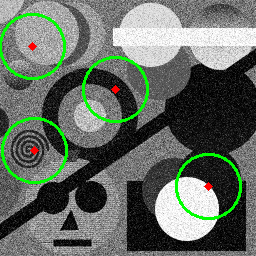
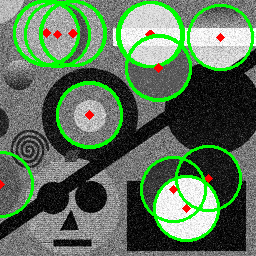
add files for lab2 @ cs650

diff --git a/CSProj/CS650/Lab 2/testHoughTransform02.py b/CSProj/CS650/Lab 2/testHoughTransform02.py
@@ -19,6 +19,8 @@ from utilities import *
 img_filename = 'circles.ppm'
 #img_filename = 'coins.png'
 
+detect_radius = 32
+
 img = Image.open(img_filename).convert("L")
 img = np.array(img)
 
@@ -27,12 +29,7 @@ img_gauss = cv2.medianBlur(img, 3)
 
 #img_edge = MarrHildreth(img_gauss, 50)
 #img_edge = canny(img_gauss, 20, 40)
-img_edge = cv2.Canny(img_gauss, 80, 100)
-
-print "generate hough circles"
-
-vg = houghCircleVariant(img_edge, [32])
-img_hough = vg.dumpHoughImgByRadusIndex(0)
+img_edge = cv2.Canny(img_gauss, 60, 140)
 
 fig1 = plt.figure()
 ax1 = fig1.add_subplot(111)
@@ -48,6 +45,9 @@ ax2.set_title('Canny')
 ax2.set_xticks([])
 ax2.set_yticks([])
 
+img_hough = houghCircle(img_edge, [detect_radius])[:,:,0]
+
+#print centers
 
 fig3 = plt.figure()
 ax3 = fig3.add_subplot(111)
@@ -56,7 +56,26 @@ ax3.set_title('Hough')
 ax3.set_xticks([])
 ax3.set_yticks([])
 
-writeToCsv('img_hough.csv', img_hough)
+plt.show()
+
+'''
+
+print "generate hough circles"
+
+vg = houghCircleVariant(img_edge, [radius])
+img_hough = vg.dumpHoughImgByRadusIndex(0)
+
+
+
+
+fig3 = plt.figure()
+ax3 = fig3.add_subplot(111)
+ax3.imshow(255*img_hough,cmap = 'gray')
+ax3.set_title('Hough')
+ax3.set_xticks([])
+ax3.set_yticks([])
+
+writeToCsv(img_filename + '-img_hough.csv', img_hough)
 
 for i in range(40):
     #print "revoting " + str(i)
@@ -71,19 +90,25 @@ ax4.set_title('Hough suppressed')
 ax4.set_xticks([])
 ax4.set_yticks([])
 
-writeToCsv('img_hough_sup.csv', img_hough_sup)
+writeToCsv(img_filename + '-img_hough_sup.csv', img_hough_sup)
 
-plt.show(block=False)
+plt.show(block=True)
 
-centers = findByThreshold(img_hough_sup, 0.5)
+'''
+
+centers = findByThreshold(img_hough, 0.5)
+#centers = findLocalMax(img_hough, 0.35)
+#centers = findByThreshold(img_hough_sup, 0.5)
 print centers
 
 cimg = cv2.cvtColor(img,cv2.COLOR_GRAY2BGR)
 for c in centers:
     # draw the outer circle
-    cv2.circle(cimg,(c[0],c[1]),32,(0,255,0),2)
+    cv2.circle(cimg,(c[0]-detect_radius,c[1]-detect_radius),detect_radius,(0,255,0),2)
     # draw the center of the circle
-    cv2.circle(cimg,(c[0],c[1]),2,(0,0,255),3)
+    cv2.circle(cimg,(c[0]-detect_radius,c[1]-detect_radius),2,(0,0,255),3)
 
 cv2.imshow('detected circles',cimg)
+cv2.imwrite(img_filename+'-detected.png',cimg)
 cv2.waitKey(0)
+

diff --git a/CSProj/CS650/Lab 2/testHoughTransform02-ut.py b/CSProj/CS650/Lab 2/testHoughTransform02-ut.py
@@ -12,6 +12,13 @@ import matplotlib.pyplot as plt
 import cv2
 from utilities import *
 
+img_filename = 'circles.ppm'
+
+detect_radius = 32
+
+img = Image.open(img_filename).convert("L")
+img = np.array(img)
+
 img_hough = readFromCsv('img_hough.csv')
 
 fig3 = plt.figure()
@@ -34,20 +41,23 @@ ax4.set_yticks([])
 
 #writeToCsv('img_hough_sup.csv', img_hough_sup)
 
-plt.show()
-'''
+#plt.show()
+
 plt.show(block=False)
 
-centers = findByThreshold(img_hough_sup, 0.5)
-print centers
+centers = findByThreshold(img_hough_sup, 0.06)
+#print centers
 
 cimg = cv2.cvtColor(img,cv2.COLOR_GRAY2BGR)
 for c in centers:
     # draw the outer circle
-    cv2.circle(cimg,(c[0],c[1]),32,(0,255,0),2)
+    cv2.circle(cimg,(c[0]-detect_radius,c[1]-detect_radius),detect_radius,(0,255,0),2)
     # draw the center of the circle
-    cv2.circle(cimg,(c[0],c[1]),2,(0,0,255),3)
+    cv2.circle(cimg,(c[0]-detect_radius,c[1]-detect_radius),2,(0,0,255),3)
+    
+    print str((c[0]-detect_radius,c[1]-detect_radius))
 
 cv2.imshow('detected circles',cimg)
+cv2.imwrite(img_filename+"-testHF02.png", cimg)
 cv2.waitKey(0)
-'''
+

diff --git a/CSProj/CS650/latex/Lab 2/cs650_lab2.tex b/CSProj/CS650/latex/Lab 2/cs650_lab2.tex
@@ -358,9 +358,25 @@ A simple threshold can be applied to find the parameter in this case.
 \label{fig:hough:circle:32:weighted_vote}
 \end{figure}
 
-However, the result on \emph{circles.ppm} is not good as expected.
-The reason might be from the code bugs.
-Another guess is that the performance of this method also relies on the distribution of the edge points.
+(46, 32)
+(46, 33)
+(72, 33)
+(73, 33)
+(57, 34)
+(149, 34)
+(150, 34)
+(151, 34)
+(220, 37)
+(158, 67)
+(158, 68)
+(89, 114)
+(89, 115)
+(208, 178)
+(0, 184)
+(173, 189)
+(186, 208)
+
+
 
 \subsection{Discussion}
 

diff --git a/CSProj/CS650/Lab 2/HoughTransform.py b/CSProj/CS650/Lab 2/HoughTransform.py
@@ -78,7 +78,8 @@ def findByThreshold(img_data, threshold):
     for i in range(img_width):
         for j in range(img_height):
             if img_data[i,j] > threshold:
-                results.append([i,j])
+                #results.append([i,j])
+                results.append([j,i])
     return results
 
 
